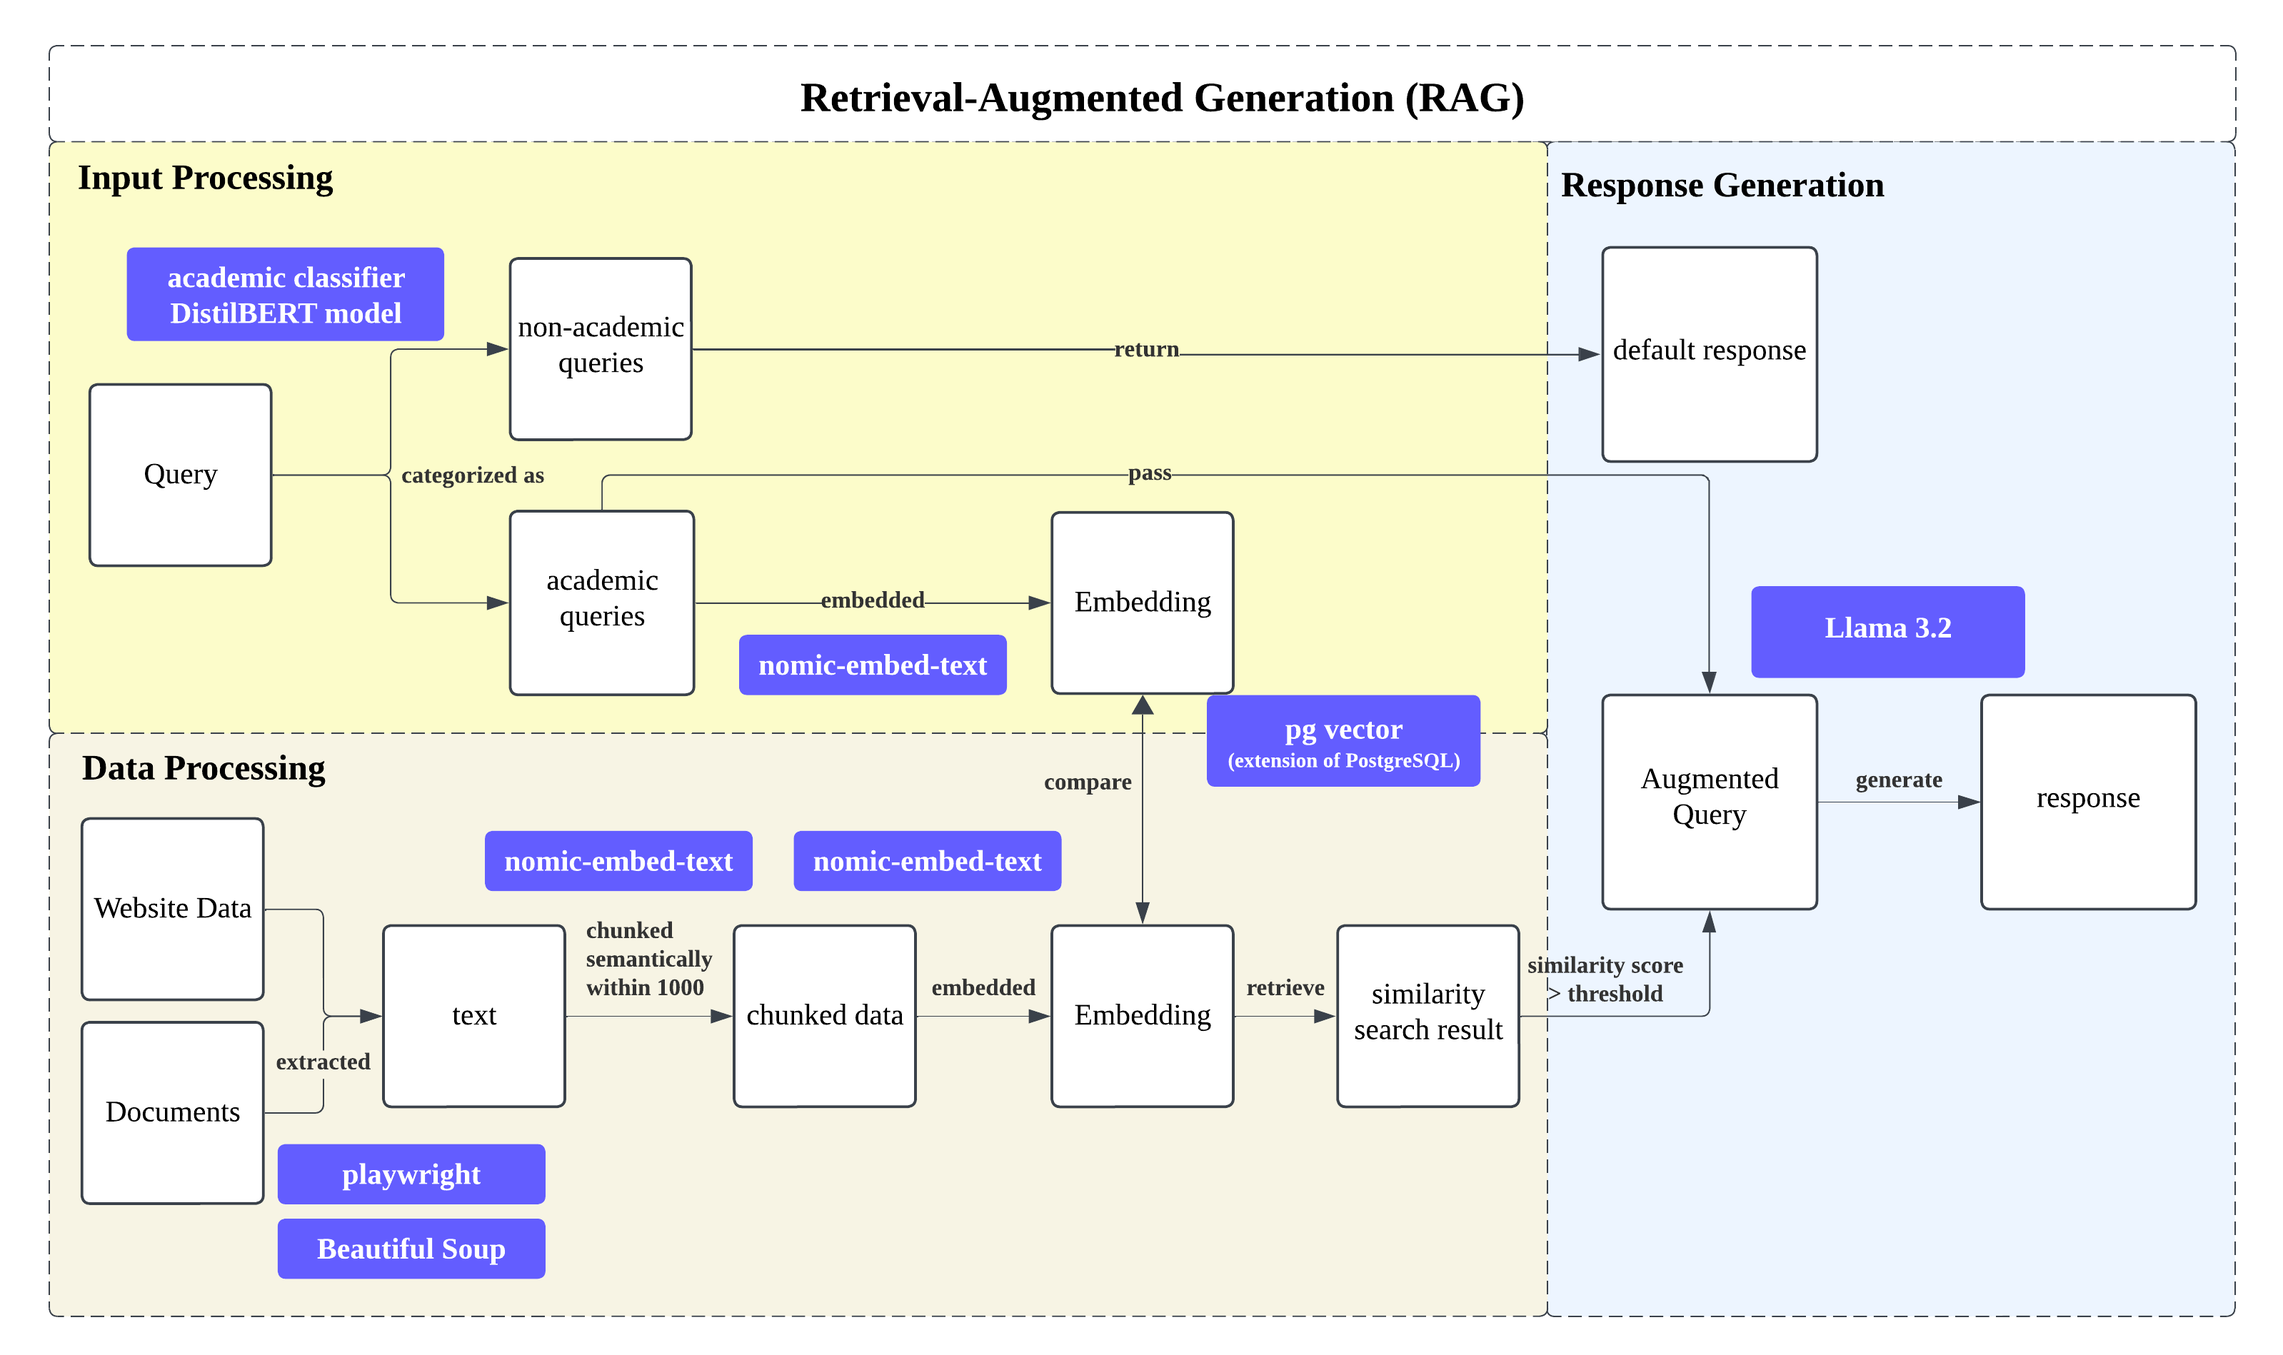
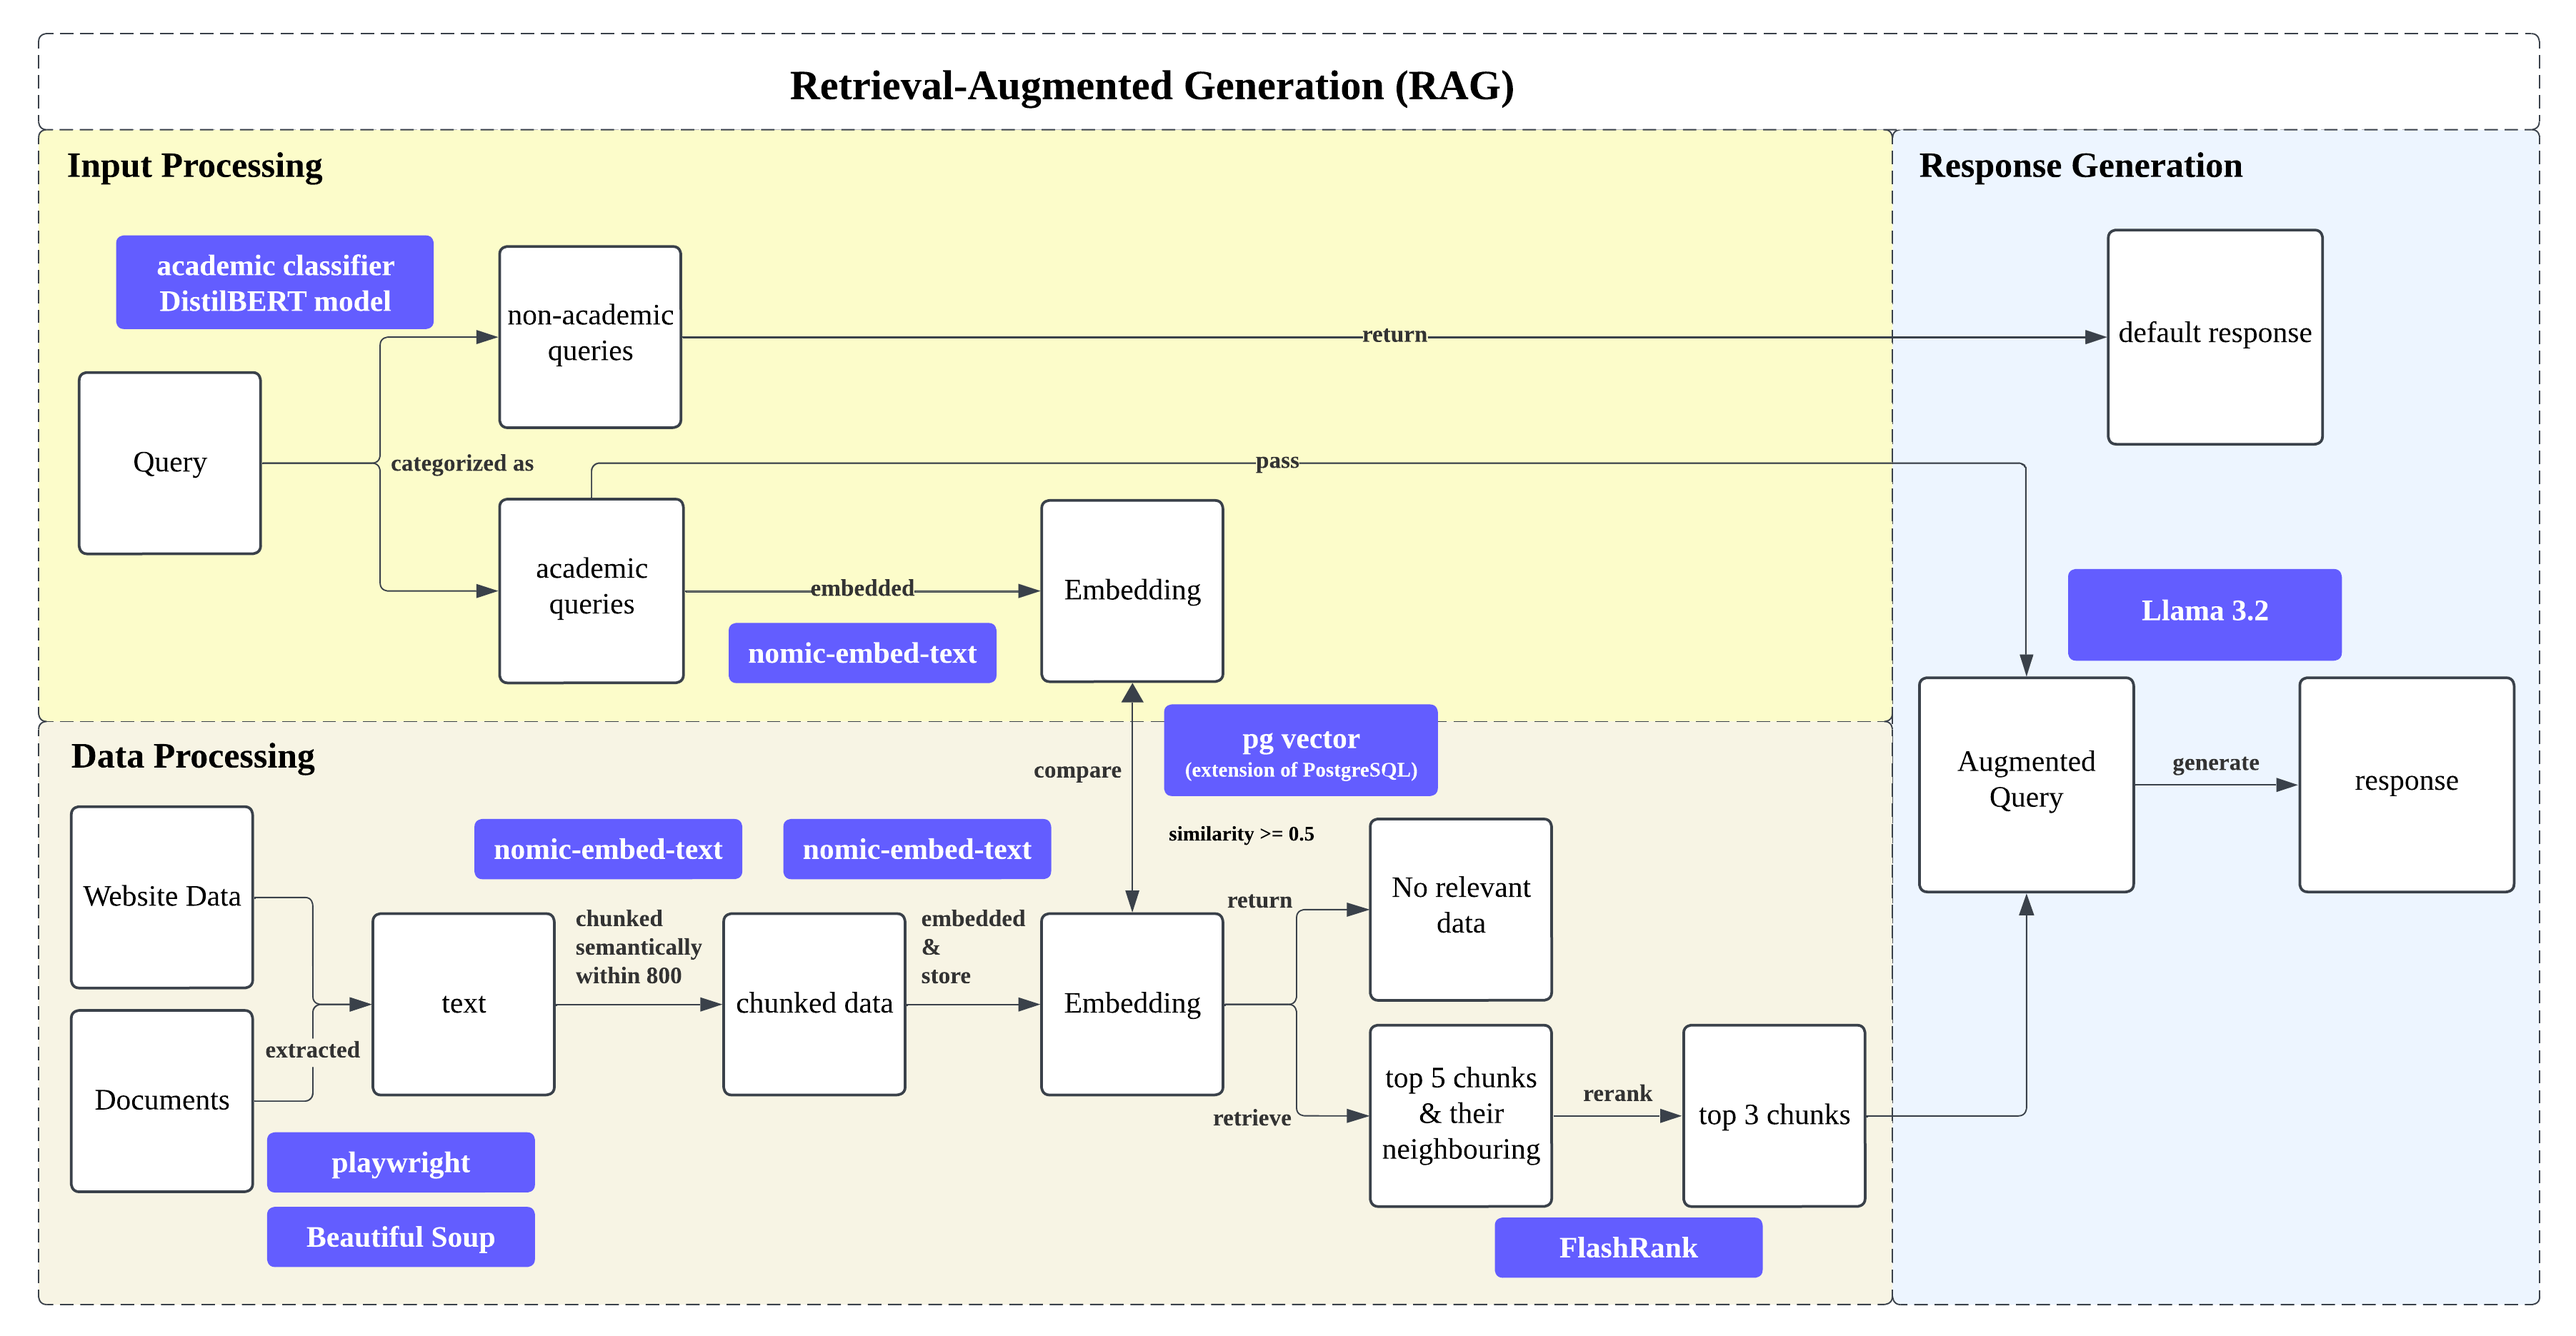
changes

Changed region(s): [[0.0, 0.031, 0.9909, 0.992]]

diff --git a/backend/app/services/rag.py b/backend/app/services/rag.py
@@ -1,11 +1,8 @@
 import uuid
 from typing import List, Dict, Any
-from langchain_classic.retrievers.contextual_compression import ContextualCompressionRetriever
 from langchain_community.document_compressors import FlashrankRerank
 from langchain_core.documents import Document 
-from sentence_transformers import CrossEncoder
 
-reranker = CrossEncoder('cross-encoder/ms-marco-MiniLM-L-6-v2') 
 
 class RAGService:
     def __init__(self, supabase):
